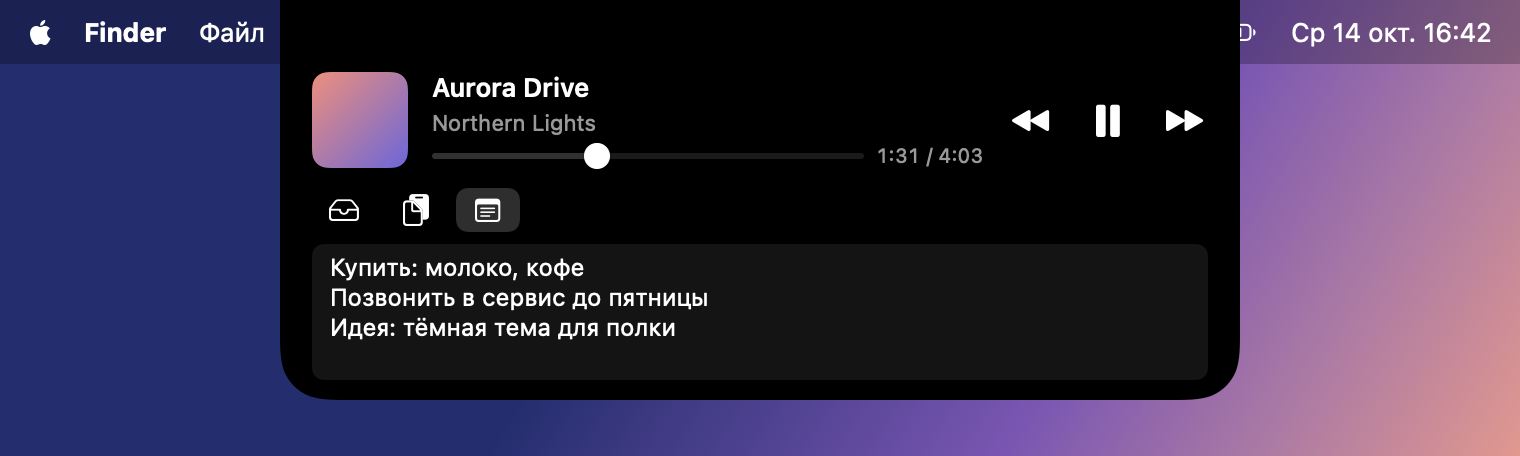
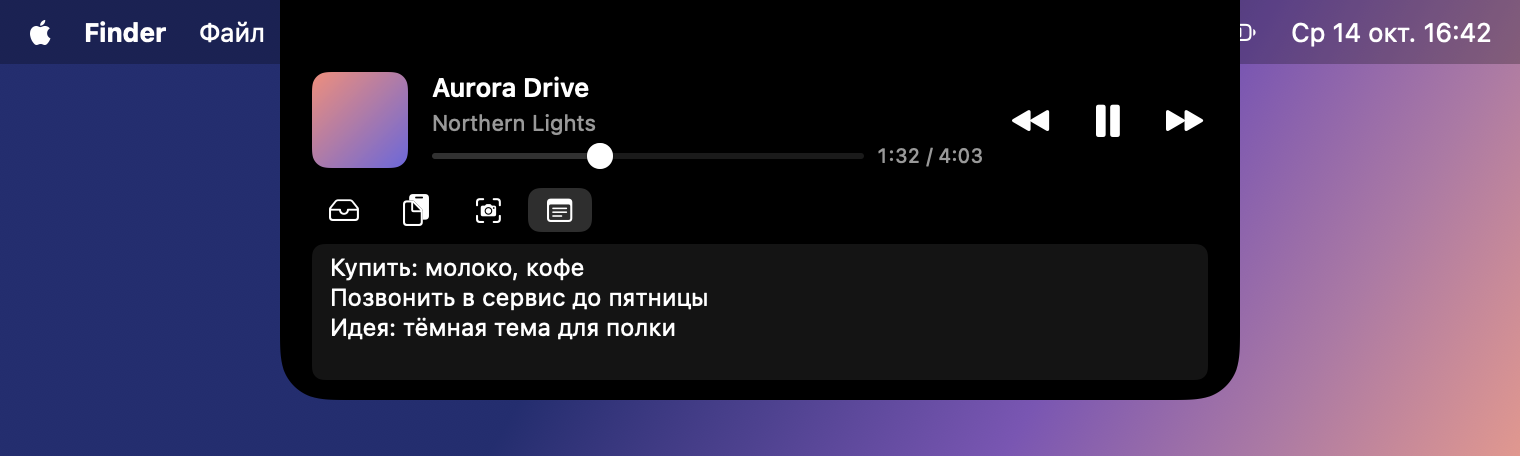
feat: add screenshots tab for ⌘⇧5 clipboard screenshots
The clipboard watcher stores screenshots (a lone public.png pasteboard
item) as PNG files, keeps the last 5 and deletes evicted ones. Clicking
a thumbnail copies it back without duplicating; dragging hands out a
PNG named like macOS screenshots. README and spec updated, pictures
re-rendered with the new tab.

Changed region(s): [[0.2783, 0.3991, 0.402, 0.5219], [0.3711, 0.307, 0.402, 0.3684]]

diff --git a/Sources/Brow/AppModel.swift b/Sources/Brow/AppModel.swift
@@ -22,6 +22,7 @@ final class AppModel {
     var media: MediaStatus = .unavailable
     var clipboard: ClipboardHistory
     var shelf: ShelfStore
+    var screenshots: ScreenshotHistory
     var noteText: String {
         didSet { notes.update(noteText) }
     }
@@ -29,6 +30,10 @@ final class AppModel {
     @ObservationIgnored var clipboardWatcher: ClipboardWatcher?
     @ObservationIgnored private let clipboardStore: JSONFileStore<ClipboardHistory>
     @ObservationIgnored private let shelfStore: JSONFileStore<ShelfStore>
+    @ObservationIgnored private let screenshotsStore: JSONFileStore<ScreenshotHistory>
+    /// PNG files of `screenshots`, one per entry.
+    @ObservationIgnored let screenshotsDirectory: URL
+    @ObservationIgnored private var thumbnails: [UUID: NSImage] = [:]
     @ObservationIgnored let notes: NotesStore
     @ObservationIgnored private let logger = Logger(subsystem: "com.freedrobili.Brow", category: "storage")
 
@@ -38,16 +43,21 @@ final class AppModel {
 
     var isExpanded: Bool { panel?.isExpanded ?? false }
 
-    /// `directory` holds clipboard.json, shelf.json and notes.json; the screenshot
-    /// renderer points it at a temporary folder so real data never shows up.
+    /// `directory` holds clipboard.json, shelf.json, screenshots.json, notes.json and
+    /// the Screenshots folder; the README renderer points it at a temporary folder
+    /// so real data never shows up.
     init(directory: URL = JSONFileStore<String>.defaultDirectory) {
         clipboardStore = JSONFileStore(directory: directory, name: "clipboard")
         shelfStore = JSONFileStore(directory: directory, name: "shelf")
+        screenshotsStore = JSONFileStore(directory: directory, name: "screenshots")
+        screenshotsDirectory = directory.appendingPathComponent("Screenshots", isDirectory: true)
         notes = NotesStore(store: JSONFileStore(directory: directory, name: "notes"))
         clipboard = clipboardStore.load() ?? ClipboardHistory()
         shelf = shelfStore.load() ?? ShelfStore()
+        screenshots = screenshotsStore.load() ?? ScreenshotHistory()
         noteText = notes.text
         refreshShelf()
+        tidyScreenshots()
     }
 
     func mouseMoved(to point: CGPoint) {
@@ -98,6 +108,72 @@ final class AppModel {
     /// Copies an entry back without reordering the list under the cursor.
     func copyFromHistory(_ entry: ClipboardEntry) {
         clipboardWatcher?.copy(entry.text)
+    }
+
+    func screenshotTaken(_ png: Data) {
+        let entry = ScreenshotEntry()
+        do {
+            try FileManager.default.createDirectory(at: screenshotsDirectory, withIntermediateDirectories: true)
+            try png.write(to: entry.url(in: screenshotsDirectory), options: .atomic)
+        } catch {
+            logger.error("Saving screenshot failed: \(error.localizedDescription, privacy: .public)")
+            return
+        }
+        for evicted in screenshots.add(entry) {
+            try? FileManager.default.removeItem(at: evicted.url(in: screenshotsDirectory))
+            thumbnails[evicted.id] = nil
+        }
+        persist(screenshots, to: screenshotsStore)
+    }
+
+    func copyScreenshot(_ entry: ScreenshotEntry) {
+        guard let png = try? Data(contentsOf: entry.url(in: screenshotsDirectory)) else { return }
+        clipboardWatcher?.copy(png: png)
+    }
+
+    /// A small cached copy for the tab; the originals are full screen size.
+    func thumbnail(for entry: ScreenshotEntry) -> NSImage? {
+        if let cached = thumbnails[entry.id] { return cached }
+        guard let image = NSImage(contentsOf: entry.url(in: screenshotsDirectory)) else { return nil }
+        let size = NSSize(width: 160, height: 112)
+        let scale = max(size.width / image.size.width, size.height / image.size.height)
+        let target = NSSize(width: image.size.width * scale, height: image.size.height * scale)
+        let thumbnail = NSImage(size: target, flipped: false) { rect in
+            image.draw(in: rect)
+            return true
+        }
+        thumbnails[entry.id] = thumbnail
+        return thumbnail
+    }
+
+    /// Copies the screenshot to a temporary file with a readable name for dragging out.
+    func exportScreenshot(_ entry: ScreenshotEntry) -> URL? {
+        let formatter = DateFormatter()
+        formatter.locale = Locale(identifier: "ru_RU")
+        formatter.dateFormat = "yyyy-MM-dd 'в' HH.mm.ss"
+        let folder = FileManager.default.temporaryDirectory.appendingPathComponent("BrowScreenshots", isDirectory: true)
+        let target = folder.appendingPathComponent("Снимок экрана \(formatter.string(from: entry.date)).png")
+        do {
+            try FileManager.default.createDirectory(at: folder, withIntermediateDirectories: true)
+            try? FileManager.default.removeItem(at: target)
+            try FileManager.default.copyItem(at: entry.url(in: screenshotsDirectory), to: target)
+            return target
+        } catch {
+            logger.error("Exporting screenshot failed: \(error.localizedDescription, privacy: .public)")
+            return nil
+        }
+    }
+
+    /// Drops entries whose PNG is gone and PNGs no entry refers to.
+    private func tidyScreenshots() {
+        let before = screenshots
+        screenshots.removeMissing(in: screenshotsDirectory)
+        if screenshots != before { persist(screenshots, to: screenshotsStore) }
+        let known = Set(screenshots.entries.map { $0.url(in: screenshotsDirectory).lastPathComponent })
+        let files = (try? FileManager.default.contentsOfDirectory(at: screenshotsDirectory, includingPropertiesForKeys: nil)) ?? []
+        for file in files where !known.contains(file.lastPathComponent) {
+            try? FileManager.default.removeItem(at: file)
+        }
     }
 
     func addToShelf(_ urls: [URL]) {

diff --git a/Sources/Brow/ScreenshotRenderer.swift b/Sources/Brow/ScreenshotRenderer.swift
@@ -22,7 +22,8 @@ enum ScreenshotRenderer {
 
         try render(model, to: outputDirectory.appendingPathComponent("collapsed.png"))
         model.mouseMoved(to: CGPoint(x: geometry.notchRect.midX, y: geometry.notchRect.midY))
-        for (tab, name) in [(PanelTab.shelf, "shelf"), (.clipboard, "clipboard"), (.notes, "notes")] {
+        for (tab, name) in [(PanelTab.shelf, "shelf"), (.clipboard, "clipboard"),
+                            (.screenshots, "screenshots"), (.notes, "notes")] {
             model.select(tab)
             try render(model, to: outputDirectory.appendingPathComponent("\(name).png"))
         }
@@ -51,6 +52,13 @@ enum ScreenshotRenderer {
         }
         model.addToShelf((files + ["Проект"]).map { directory.appendingPathComponent($0) })
 
+        for (top, bottom) in [((0.95, 0.55, 0.35), (0.85, 0.25, 0.45)),
+                              ((0.3, 0.7, 0.95), (0.2, 0.3, 0.8)),
+                              ((0.45, 0.85, 0.6), (0.1, 0.5, 0.45)),
+                              ((0.98, 0.85, 0.4), (0.95, 0.5, 0.3))] {
+            if let png = demoScreenshot(top: top, bottom: bottom) { model.screenshotTaken(png) }
+        }
+
         model.noteText = "Купить: молоко, кофе\nПозвонить в сервис до пятницы\nИдея: тёмная тема для полки"
     }
 
@@ -76,6 +84,27 @@ enum ScreenshotRenderer {
         }
         try png.write(to: url)
         print("wrote \(url.path)")
+    }
+
+    /// A fake window on a gradient, standing in for a real screenshot.
+    private static func demoScreenshot(top: (Double, Double, Double), bottom: (Double, Double, Double)) -> Data? {
+        let image = NSImage(size: NSSize(width: 800, height: 520), flipped: false) { rect in
+            NSGradient(starting: NSColor(calibratedRed: top.0, green: top.1, blue: top.2, alpha: 1),
+                       ending: NSColor(calibratedRed: bottom.0, green: bottom.1, blue: bottom.2, alpha: 1))!
+                .draw(in: rect, angle: -60)
+            let window = rect.insetBy(dx: 120, dy: 90)
+            NSColor.white.withAlphaComponent(0.92).setFill()
+            NSBezierPath(roundedRect: window, xRadius: 18, yRadius: 18).fill()
+            NSColor.black.withAlphaComponent(0.12).setFill()
+            for row in 0..<4 {
+                let y = window.maxY - 70 - CGFloat(row) * 60
+                NSBezierPath(roundedRect: NSRect(x: window.minX + 40, y: y, width: window.width - 80 - CGFloat(row) * 60, height: 26),
+                             xRadius: 13, yRadius: 13).fill()
+            }
+            return true
+        }
+        guard let tiff = image.tiffRepresentation else { return nil }
+        return NSBitmapImageRep(data: tiff)?.representation(using: .png, properties: [:])
     }
 
     /// A plain gradient square standing in for album art.

diff --git a/Sources/Brow/Views/ScreenshotsView.swift b/Sources/Brow/Views/ScreenshotsView.swift
@@ -1,0 +1,58 @@
+import BrowCore
+import SwiftUI
+
+/// The last screenshots taken to the clipboard: click copies one back, drag gives a PNG file.
+struct ScreenshotsView: View {
+    let model: AppModel
+    @State private var copiedId: UUID?
+
+    var body: some View {
+        if model.screenshots.entries.isEmpty {
+            Text("Сделайте скриншот через ⌘⇧5 → Сохранить в буфер обмена")
+                .font(.system(size: 11))
+                .foregroundStyle(.white.opacity(0.5))
+                .multilineTextAlignment(.center)
+                .frame(maxWidth: .infinity, maxHeight: .infinity)
+        } else {
+            HStack(spacing: 8) {
+                ForEach(model.screenshots.entries) { entry in
+                    thumbnail(entry)
+                }
+                Spacer(minLength: 0)
+            }
+        }
+    }
+
+    private func thumbnail(_ entry: ScreenshotEntry) -> some View {
+        ZStack {
+            if let image = model.thumbnail(for: entry) {
+                Image(nsImage: image)
+                    .resizable()
+                    .aspectRatio(contentMode: .fill)
+            } else {
+                Color.white.opacity(0.12)
+            }
+            if copiedId == entry.id {
+                Color.black.opacity(0.45)
+                Image(systemName: "checkmark")
+                    .font(.system(size: 18, weight: .semibold))
+                    .foregroundStyle(.green)
+            }
+        }
+        .frame(width: 80, height: 56)
+        .clipShape(RoundedRectangle(cornerRadius: 6))
+        .overlay(RoundedRectangle(cornerRadius: 6).strokeBorder(.white.opacity(0.15)))
+        .contentShape(Rectangle())
+        .onTapGesture {
+            model.copyScreenshot(entry)
+            copiedId = entry.id
+            Task {
+                try? await Task.sleep(for: .seconds(1))
+                if copiedId == entry.id { copiedId = nil }
+            }
+        }
+        .onDrag {
+            model.exportScreenshot(entry).flatMap { NSItemProvider(contentsOf: $0) } ?? NSItemProvider()
+        }
+    }
+}

diff --git a/Sources/Brow/ClipboardWatcher.swift b/Sources/Brow/ClipboardWatcher.swift
@@ -1,15 +1,19 @@
 import AppKit
+import BrowCore
 
-/// Polls the general pasteboard (macOS has no change notification) and reports new text.
+/// Polls the general pasteboard (macOS has no change notification) and reports
+/// new text and new ⌘⇧5 screenshots.
 @MainActor
 final class ClipboardWatcher {
     private let pasteboard = NSPasteboard.general
     private let onText: (String, Set<String>) -> Void
+    private let onScreenshot: (Data) -> Void
     private var lastChangeCount: Int
     private var timer: Timer?
 
-    init(onText: @escaping (String, Set<String>) -> Void) {
+    init(onText: @escaping (String, Set<String>) -> Void, onScreenshot: @escaping (Data) -> Void) {
         self.onText = onText
+        self.onScreenshot = onScreenshot
         lastChangeCount = pasteboard.changeCount
     }
 
@@ -28,11 +32,24 @@ final class ClipboardWatcher {
         lastChangeCount = pasteboard.changeCount
     }
 
+    /// Puts a PNG on the pasteboard without reporting it back as a new screenshot.
+    func copy(png: Data) {
+        pasteboard.clearContents()
+        pasteboard.setData(png, forType: .png)
+        lastChangeCount = pasteboard.changeCount
+    }
+
     private func poll() {
         let changeCount = pasteboard.changeCount
         guard changeCount != lastChangeCount else { return }
         lastChangeCount = changeCount
-        guard let text = pasteboard.string(forType: .string) else { return }
-        onText(text, Set(pasteboard.types?.map(\.rawValue) ?? []))
+        if let text = pasteboard.string(forType: .string) {
+            onText(text, Set(pasteboard.types?.map(\.rawValue) ?? []))
+            return
+        }
+        let itemTypes = (pasteboard.pasteboardItems ?? []).map { $0.types.map(\.rawValue) }
+        if ScreenshotHistory.isScreenshot(itemTypes: itemTypes), let png = pasteboard.data(forType: .png) {
+            onScreenshot(png)
+        }
     }
 }

diff --git a/Sources/Brow/AppDelegate.swift b/Sources/Brow/AppDelegate.swift
@@ -22,7 +22,10 @@ final class AppDelegate: NSObject, NSApplicationDelegate {
         tracker.start()
         mouseTracker = tracker
         startMedia()
-        let watcher = ClipboardWatcher { [model] text, types in model.clipboardChanged(text, types: types) }
+        let watcher = ClipboardWatcher(
+            onText: { [model] text, types in model.clipboardChanged(text, types: types) },
+            onScreenshot: { [model] png in model.screenshotTaken(png) }
+        )
         watcher.start()
         model.clipboardWatcher = watcher
     }

diff --git a/Sources/Brow/Views/NotchRootView.swift b/Sources/Brow/Views/NotchRootView.swift
@@ -84,6 +84,7 @@ struct NotchRootView: View {
         switch model.panel?.selectedTab ?? .shelf {
         case .shelf: ShelfView(model: model)
         case .clipboard: ClipboardView(model: model)
+        case .screenshots: ScreenshotsView(model: model)
         case .notes: NotesView(model: model)
         }
     }
@@ -94,6 +95,7 @@ extension PanelTab {
         switch self {
         case .shelf: "tray"
         case .clipboard: "doc.on.clipboard"
+        case .screenshots: "camera.viewfinder"
         case .notes: "note.text"
         }
     }

diff --git a/README.md b/README.md
@@ -18,6 +18,10 @@ Brow превращает вырез («чёлку») MacBook в мини-пан
 
 ![Буфер](docs/screenshots/clipboard.png)
 
+**Скриншоты:** последние 5 снимков, сделанных в буфер обмена.
+
+![Скриншоты](docs/screenshots/screenshots.png)
+
 **Заметка:** один блокнот с автосохранением.
 
 ![Заметка](docs/screenshots/notes.png)
@@ -27,6 +31,7 @@ Brow превращает вырез («чёлку») MacBook в мини-пан
 - **Музыка:** название, обложка и прогресс того, что сейчас играет, в любом плеере, включая видео в браузере. Есть play/pause, предыдущий/следующий трек и перемотка ползунком.
 - **Полка:** перетащите файл или папку к вырезу, и они лягут на полку. Потом вытащите их оттуда в любое место. На полке хранится ссылка на файл, сам файл не копируется. Если оригинал удалить или отправить в Корзину, он исчезнет с полки.
 - **Буфер:** последние 50 скопированных текстов с поиском. Клик по записи снова кладёт её в буфер обмена. Тексты из менеджеров паролей не сохраняются. Перетащите выделенный текст к вырезу, и он тоже попадёт в историю.
+- **Скриншоты:** сделайте снимок через ⌘⇧5 с параметром «Сохранить в → Буфер обмена», и он появится на отдельной вкладке. Хранятся последние 5, более старые удаляются. Клик снова кладёт скриншот в буфер обмена, перетаскивание отдаёт его PNG-файлом в Finder, чат или письмо. Картинки, скопированные из браузера и других программ, сюда не попадают.
 - **Заметка:** один блокнот с автосохранением. Пока вы печатаете, панель не сворачивается.
 
 ## Установка
@@ -86,7 +91,7 @@ make install
   ```
 
   Или перетащите `Brow.app` в Dock из папки «Программы» в домашней папке (в Finder нажмите ⇧⌘H).
-- **Ваши данные** (история буфера, полка, заметка) лежат в `~/Library/Application Support/Brow/`.
+- **Ваши данные** (история буфера, скриншоты, полка, заметка) лежат в `~/Library/Application Support/Brow/`.
 
 ## Обновление
 

diff --git a/docs/superpowers/specs/2026-10-14-brow-design.md b/docs/superpowers/specs/2026-10-14-brow-design.md
@@ -43,6 +43,13 @@
 - Пропускаются: данные с маркерами `org.nspasteboard.ConcealedType` / `org.nspasteboard.TransientType` (менеджеры паролей), пустые и пробельные строки.
 - Строки длиннее 10 000 символов показываются обрезанными, копируются целиком.
 
+### Скриншоты (добавлено 2026-10-15)
+- Отдельная вкладка рядом с «Буфером» (порядок: Полка / Буфер / Скриншоты / Заметки).
+- Скриншот — содержимое буфера из одного элемента только с типом `public.png` (так кладёт ⌘⇧5 «Сохранить в → Буфер обмена»); картинки из браузера и программ несут доп. типы (HTML, URL источника, TIFF) и игнорируются.
+- Хранятся последние 5, новые первыми; вытесненный удаляется с диска. Файлы — `~/Library/Application Support/Brow/Screenshots/<id>.png`, список — `screenshots.json`; записи без файла и файлы без записи убираются при запуске.
+- Клик по миниатюре кладёт PNG обратно в буфер (без дубля); перетаскивание отдаёт PNG-файл «Снимок экрана <дата> в <время>.png».
+- Панель при новом скриншоте не раскрывается.
+
 ### Быстрые заметки
 - Один блокнот — одно текстовое поле, автосохранение с задержкой ~0,5 с.
 
